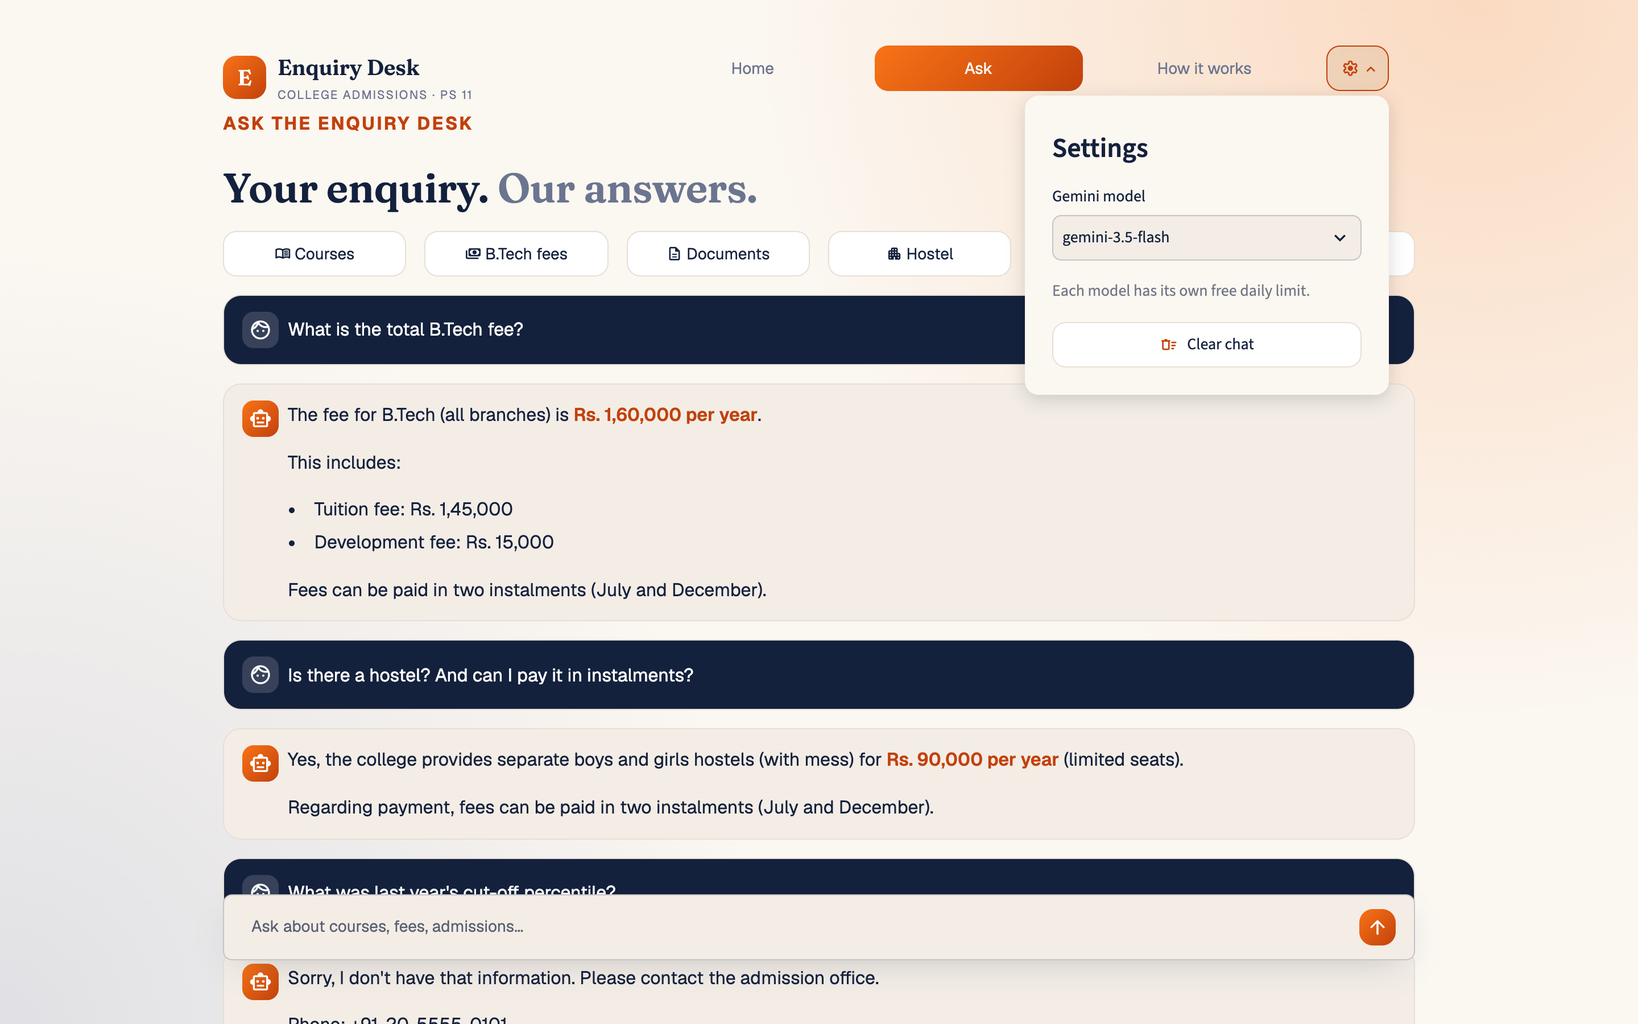
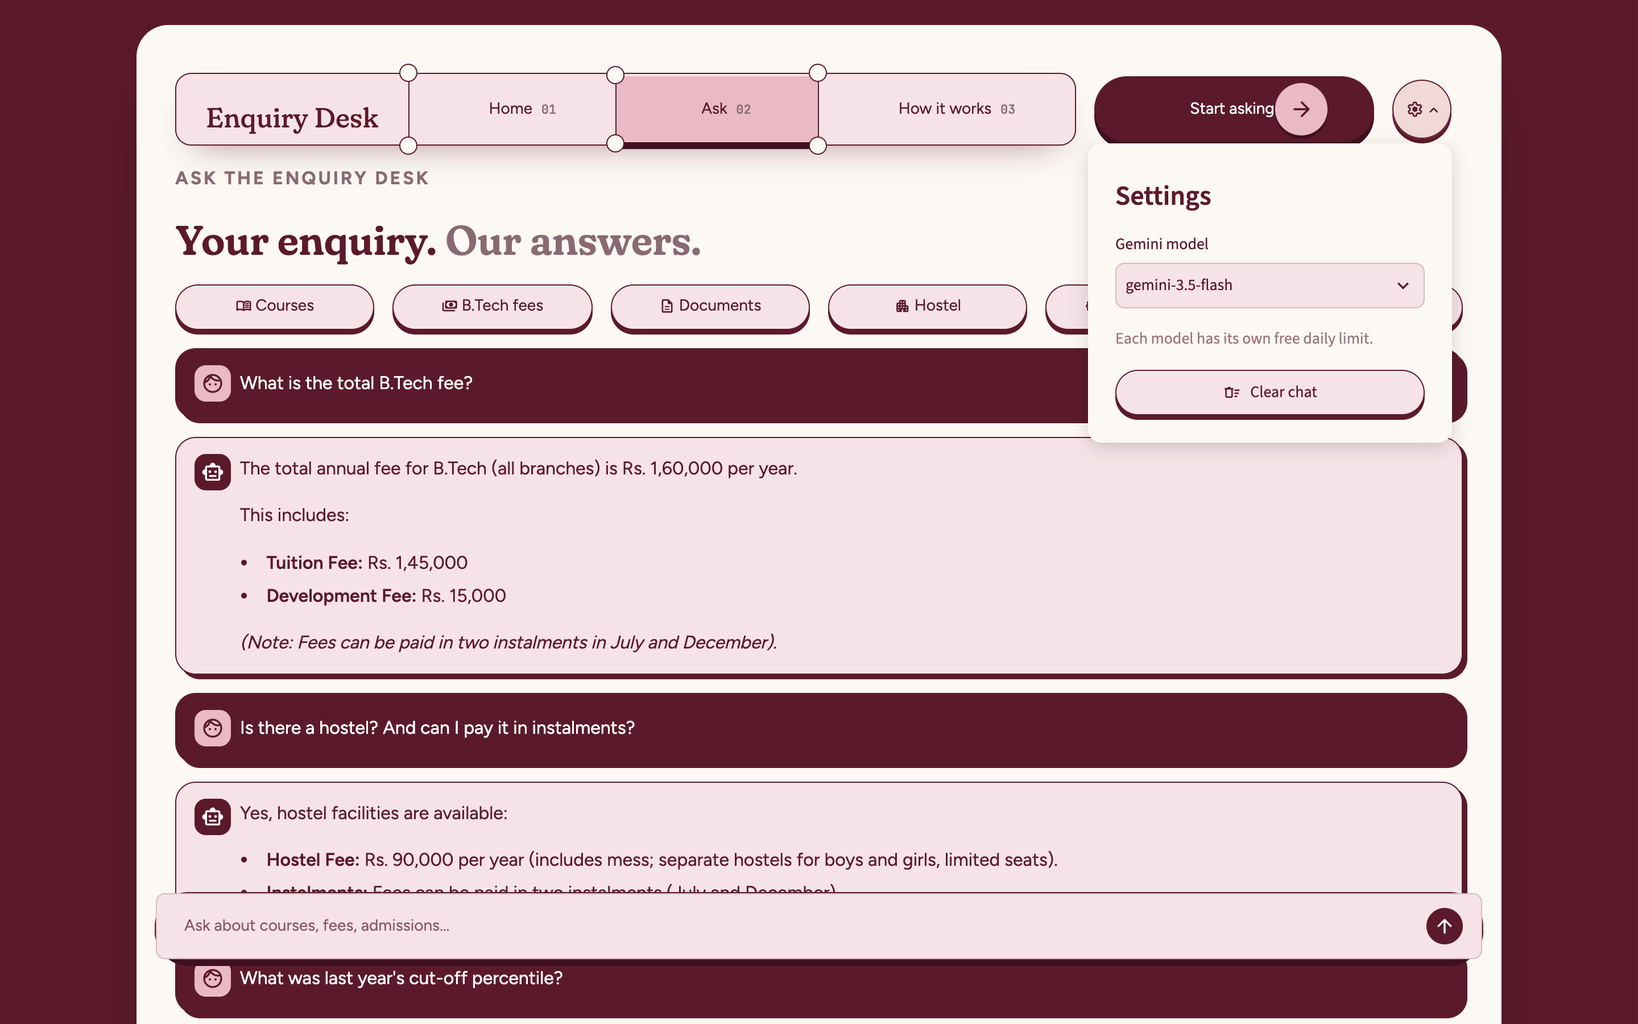
New wine and pink design with 3D programme cube

diff --git a/style.css b/style.css
@@ -1,115 +1,149 @@
 /* College Enquiry Chatbot - page styling.
-   Colours: orange (buttons, highlights) + dark navy (text, user messages). */
+   Colours: dark wine (frame, buttons, text) + soft pink (cards, highlights) on cream. */
 
-@import url('https://fonts.googleapis.com/css2?family=Fraunces:ital,wght@0,600;1,600&family=Geist:wght@400;500;600;700&display=swap');
+@import url('https://fonts.googleapis.com/css2?family=Fraunces:opsz,wght,SOFT@9..144,400..600,100&family=Figtree:wght@400;500;600;700&family=JetBrains+Mono:wght@500&display=swap');
 
 /* ---------- 1. Colours and fonts ---------- */
 :root {
-  --cream: #FBF7F1;      /* page background */
-  --card: #FFFFFF;
-  --line: #E7DFD6;       /* thin borders */
-  --navy: #14213D;       /* main text */
-  --grey: #6B7590;       /* secondary text */
-  --orange: #C2410C;
-  --orange-light: #F97316;
-  --orange-gradient: linear-gradient(135deg, #F97316, #C2410C);
-  --shadow: 0 10px 30px -12px rgba(20, 33, 61, .25);
+  --wine: #5B1A2C;        /* frame, dark buttons, text */
+  --wine-dark: #3F1020;   /* chunky shadows */
+  --pink: #E9B9C6;        /* light cards */
+  --pink-soft: #F5E3E8;   /* nav bar, chips */
+  --cream: #FCF8F4;       /* page card */
+  --grey: #8A6A72;        /* small text */
+  --serif: 'Fraunces', Georgia, serif;
+  --sans: 'Figtree', sans-serif;
 }
 
-.stApp {
-  background:
-    radial-gradient(circle at 90% 0%, rgba(249, 115, 22, .22), transparent 40%),
-    radial-gradient(circle at 0% 100%, rgba(30, 58, 138, .12), transparent 40%),
-    var(--cream);
-  color: var(--navy);
-  font-family: 'Geist', sans-serif;
-}
-.stApp p, .stApp li, .stApp button { font-family: 'Geist', sans-serif; }
-.block-container { max-width: 1080px; padding-top: 1.5rem; }
-[data-testid="stHeader"] { background: transparent; }
-[data-testid="stToolbar"] { display: none; }
+/* wine frame around a cream card */
+.stApp { background: var(--wine); color: var(--wine); font-family: var(--sans); }
+.stApp p, .stApp li, .stApp button { font-family: var(--sans); }
+.block-container { max-width: 1200px; background: var(--cream); border-radius: 28px;
+  margin: 22px auto 110px; padding: 26px 34px 40px; box-shadow: 0 30px 60px -30px rgba(0, 0, 0, .5); }
+[data-testid="stHeader"], [data-testid="stToolbar"] { display: none; }
+h1, h2, h3 { font-family: var(--serif) !important; color: var(--wine); font-weight: 500; }
 
-/* ---------- 2. Top bar ---------- */
-.brand { display: flex; align-items: center; gap: 10px; font-family: 'Fraunces', serif; font-size: 19px; }
-.brand small { display: block; font-family: 'Geist', sans-serif; font-size: 10.5px;
-  letter-spacing: .1em; text-transform: uppercase; color: var(--grey); }
-.logo { width: 38px; height: 38px; border-radius: 12px; display: grid; place-items: center;
-  background: var(--orange-gradient); color: white; font-weight: 700; }
+/* ---------- 2. Top bar (pink segmented bar with round joints) ---------- */
+.st-key-navbar { background: var(--pink-soft); border: 1.5px solid var(--wine); border-radius: 14px;
+  box-shadow: 0 14px 30px -18px rgba(91, 26, 44, .6); }
+.st-key-navbar > [data-testid="stElementContainer"] { position: relative; border-left: 1.5px solid var(--wine); }
+.st-key-navbar > [data-testid="stElementContainer"]:first-child { border-left: none; }
+/* the small circles where the dividers meet the bar edge */
+.st-key-navbar > [data-testid="stElementContainer"]:not(:first-child)::before,
+.st-key-navbar > [data-testid="stElementContainer"]:not(:first-child)::after {
+  content: ""; position: absolute; left: -9px; width: 16px; height: 16px; border-radius: 50%;
+  background: var(--cream); border: 1.5px solid var(--wine); z-index: 2; }
+.st-key-navbar > [data-testid="stElementContainer"]::before { top: -9px; }
+.st-key-navbar > [data-testid="stElementContainer"]::after { bottom: -9px; }
+.brand { font-family: var(--serif); font-size: 24px; padding: 14px 26px; white-space: nowrap; }
+.st-key-navbar .stButton > button { min-height: 62px; border-radius: 0; border: none; box-shadow: none;
+  background: transparent; color: var(--wine); font-size: 16px; font-weight: 600; justify-content: flex-start; padding-left: 22px; }
+.st-key-navbar .stButton > button[kind="primary"] { background: var(--pink); color: var(--wine) !important; }
+.st-key-navbar .stButton > button:hover { background: var(--pink); transform: none; }
+.st-key-navbar code { background: none; color: var(--grey); font-family: 'JetBrains Mono', monospace; font-size: 11px; }
 
 /* ---------- 3. Buttons ---------- */
-.stButton > button { border-radius: 12px; border: 1px solid var(--line); background: var(--card);
-  color: var(--navy); font-weight: 600; transition: transform .2s, border-color .2s, color .2s; }
-.stButton > button:hover { transform: translateY(-2px); border-color: var(--orange); color: var(--orange); }
-.stButton [data-testid="stIconMaterial"] { color: var(--orange); }
+/* light pill buttons (quick questions, How it works) */
+.stButton > button { border-radius: 999px; border: 1.5px solid var(--wine); background: var(--pink-soft);
+  color: var(--wine); font-weight: 600; box-shadow: 0 4px 0 var(--wine); transition: transform .15s, box-shadow .15s; }
+.stButton > button:hover { transform: translateY(-2px); box-shadow: 0 6px 0 var(--wine); color: var(--wine); border-color: var(--wine); }
+.stButton > button:active { transform: translateY(3px); box-shadow: 0 1px 0 var(--wine); }
+.stButton [data-testid="stIconMaterial"] { color: var(--wine); }
 
-/* primary = orange button (current page, "Start asking") */
-.stButton > button[kind="primary"] { background: var(--orange-gradient); color: white; border: none; }
-.stButton > button[kind="primary"]:hover { color: white; }
-.stButton > button[kind="primary"] [data-testid="stIconMaterial"] { color: white; }
-
-/* tertiary = plain text link (other pages in the top bar) */
-.stButton > button[kind="tertiary"] { background: transparent; border: none; color: var(--grey); }
+/* dark wine pill with a round pink arrow cap ("Start asking", "Ask a question") */
+.stButton > button[kind="primary"] { background: var(--wine); color: white; border: none; min-height: 58px;
+  padding: 4px 6px 4px 26px; justify-content: space-between; box-shadow: 0 6px 0 var(--wine-dark); }
+.stButton > button[kind="primary"]:hover { color: white; box-shadow: 0 8px 0 var(--wine-dark); }
+.stButton > button[kind="primary"] [data-testid="stIconMaterial"] { width: 46px; height: 46px; border-radius: 50%;
+  display: grid; place-items: center; flex: none; font-size: 22px; background: var(--pink); color: var(--wine); margin-left: 16px;
+  box-shadow: 0 3px 0 var(--wine-dark); transition: transform .2s; }
+.stButton > button[kind="primary"]:hover [data-testid="stIconMaterial"] { transform: translateX(3px); }
 
 /* settings (gear) button */
-[data-testid="stPopover"] { display: flex; justify-content: flex-end; }
-[data-testid="stPopoverButton"] { border-radius: 12px; background: var(--card); }
-[data-testid="stPopoverButton"]:hover { border-color: var(--orange); color: var(--orange); }
+[data-testid="stPopoverButton"] { border-radius: 50%; width: 52px; height: 52px; border: 1.5px solid var(--wine);
+  background: var(--pink-soft); box-shadow: 0 4px 0 var(--wine); }
 
-/* ---------- 4. Headings ---------- */
-h1, h2, h3 { font-family: 'Fraunces', serif !important; color: var(--navy); }
-.eyebrow { color: var(--orange); font-size: 12.5px; font-weight: 700; letter-spacing: .1em;
-  text-transform: uppercase; margin: 2.2rem 0 .4rem; }
+/* ---------- 4. Tickets (cards with a notch on each side) ---------- */
+.ticket { position: relative; border: 1.5px solid var(--wine); border-radius: 16px; padding: 14px 28px 16px;
+  box-shadow: 8px 8px 0 var(--wine-dark); animation: rise .6s ease both; }
+.ticket::before, .ticket::after { content: ""; position: absolute; top: 50%; width: 22px; height: 22px;
+  margin-top: -11px; border-radius: 50%; background: var(--cream); border: 1.5px solid var(--wine); }
+.ticket::before { left: -12px; } .ticket::after { right: -12px; }
+.ticket small { display: block; font-size: 15px; opacity: .8; }
+.ticket b { display: block; font-family: var(--serif); font-weight: 500; font-size: 64px; line-height: 1.05; }
+.ticket.light { background: var(--pink); color: var(--wine); }
+.ticket.dark { background: var(--wine); color: white; text-align: right; }
+
+/* ---------- 5. Home page text ---------- */
+.tagline { font-family: var(--serif); font-size: 30px; line-height: 1.15; margin: 34px 0 4px; }
+.hint { color: var(--grey); font-size: 14px; margin-bottom: 14px; }
+.note { text-align: right; font-size: 17px; margin: 26px 0 14px; color: var(--wine); }
+.note b { font-family: var(--serif); font-weight: 500; font-size: 21px; }
+.big-line { display: flex; justify-content: space-between; flex-wrap: wrap; gap: 0 40px; margin-top: 10px;
+  font-family: var(--serif); font-size: clamp(44px, 6.5vw, 92px); line-height: 1; letter-spacing: -.02em; }
+
+/* programme chips: round buttons, the chosen one is wine */
+[data-testid="stButtonGroup"] { display: flex; justify-content: flex-end; }
+[data-testid="stButtonGroup"] button { width: 58px; height: 58px; border-radius: 50% !important; border: 1.5px solid var(--wine) !important;
+  background: var(--cream); color: var(--wine); font-weight: 700; box-shadow: 0 4px 0 var(--wine); margin-left: -4px; }
+[data-testid="stButtonGroup"] button[aria-checked="true"] { background: var(--wine) !important; color: white !important; }
+
+/* ---------- 6. The 3D cube ---------- */
+.scene { position: relative; height: 420px; perspective: 1100px; display: grid; place-items: center; }
+.plate { position: absolute; width: 380px; height: 380px; top: 120px; background: var(--pink);
+  border: 1.5px solid var(--wine); box-shadow: 0 14px 0 var(--wine);
+  transform: rotateX(68deg) rotateZ(-38deg); }
+.cube { position: relative; width: 240px; height: 240px; transform-style: preserve-3d;
+  transform: rotateX(-16deg) rotateY(28deg); animation: sway 7s ease-in-out infinite; }
+.cube:hover { animation-duration: 2s; }
+.face { position: absolute; inset: 0; border: 1.5px solid var(--wine); background: var(--cream);
+  display: flex; flex-direction: column; justify-content: center; align-items: center; color: var(--wine); }
+.front { transform: translateZ(120px); }
+.side { transform: rotateY(-90deg) translateZ(120px); background: #EFE4E2; }
+.top { transform: rotateX(90deg) translateZ(120px); background: var(--wine); }
+.face small { font-size: 14px; opacity: .7; }
+.face b { font-family: var(--serif); font-weight: 500; font-size: 46px; }
+.side b { font-size: 26px; }
+.say { margin-top: 14px; display: flex; align-items: center; gap: 8px; padding: 6px 14px 6px 6px;
+  border: 1.5px solid var(--wine); border-radius: 12px; background: white; font-size: 14px; font-weight: 600;
+  box-shadow: 0 3px 0 var(--wine); }
+.say i { width: 26px; height: 26px; border-radius: 50%; background: var(--wine); position: relative; }
+.say i::after { content: ""; position: absolute; left: 10px; top: 7px; border-left: 9px solid white;
+  border-top: 6px solid transparent; border-bottom: 6px solid transparent; }
+@keyframes sway { 50% { transform: rotateX(-16deg) rotateY(42deg); } }
+
+/* ---------- 7. Ask page (chat) ---------- */
+.eyebrow { color: var(--grey); font-size: 13px; font-weight: 700; letter-spacing: .12em; text-transform: uppercase; margin: 2rem 0 .3rem; }
 .grey { color: var(--grey); }
-
-/* ---------- 5. Home page ---------- */
-.hero { margin-top: 1.5rem; animation: rise .7s ease both; }
-.hero h1 { font-size: clamp(40px, 6vw, 62px); line-height: 1.05; margin: 0 0 1rem; }
-.highlight { font-style: italic; color: var(--orange);
-  background: linear-gradient(transparent 62%, rgba(251, 146, 60, .35) 62%); }
-.intro { font-size: 18px; color: var(--grey); max-width: 560px; }
-
-.stats { display: grid; grid-template-columns: repeat(4, 1fr); gap: 12px; margin: 1.6rem 0; }
-.stat { background: var(--card); border: 1px solid var(--line); border-radius: 16px; padding: 16px;
-  box-shadow: var(--shadow); transition: transform .2s; }
-.stat:hover { transform: translateY(-4px); }
-.stat b { display: block; font-size: 28px; color: var(--orange); }
-.stat span { font-size: 13px; color: var(--grey); }
-
-/* ---------- 6. Chat ---------- */
-[data-testid="stChatMessage"] { background: #F3EDE6; border: 1px solid var(--line); border-radius: 16px;
-  padding: 14px 16px; animation: rise .4s ease both; }
-/* the user's messages are navy */
-[data-testid="stChatMessage"]:has([data-testid="stChatMessageAvatarUser"]) { background: var(--navy); }
+[data-testid="stChatMessage"] { background: var(--pink-soft); border: 1.5px solid var(--wine); border-radius: 18px;
+  padding: 14px 16px; box-shadow: 4px 4px 0 var(--wine); animation: rise .4s ease both; }
+[data-testid="stChatMessage"]:has([data-testid="stChatMessageAvatarUser"]) { background: var(--wine); }
 [data-testid="stChatMessage"]:has([data-testid="stChatMessageAvatarUser"]) p { color: white; }
-[data-testid="stChatMessage"] strong { color: var(--orange); }
-/* avatars: orange square for the bot, light square for the user */
-[data-testid="stChatMessageAvatarAssistant"] { background: var(--orange-gradient); color: white; border-radius: 10px; }
-[data-testid="stChatMessageAvatarUser"] { background: rgba(255, 255, 255, .15); color: white; border-radius: 10px; }
-
+[data-testid="stChatMessage"] p, [data-testid="stChatMessage"] li { color: var(--wine); }
+[data-testid="stChatMessageAvatarAssistant"] { background: var(--wine); color: white; border-radius: 10px; }
+[data-testid="stChatMessageAvatarUser"] { background: var(--pink); color: var(--wine); border-radius: 10px; }
 [data-testid="stBottom"] > div { background: transparent; }
-[data-testid="stBottomBlockContainer"] { max-width: 1080px; }
-[data-testid="stChatInput"] { border-radius: 20px; background: var(--card); box-shadow: var(--shadow); }
-[data-testid="stChatInputSubmitButton"] { background: var(--orange-gradient); color: white; border-radius: 12px; }
+[data-testid="stBottomBlockContainer"] { max-width: 1200px; }
+[data-testid="stChatInput"] { border-radius: 999px; background: var(--cream); border: 1.5px solid var(--wine); box-shadow: 0 5px 0 var(--wine-dark); }
+[data-testid="stChatInputSubmitButton"] { background: var(--wine); color: white; border-radius: 50%; }
 
-/* ---------- 7. How it works page ---------- */
-.steps { display: grid; grid-template-columns: repeat(3, 1fr); gap: 14px; margin-top: 1rem; }
-.step { background: var(--card); border: 1px solid var(--line); border-radius: 18px; padding: 20px;
-  box-shadow: var(--shadow); transition: transform .2s; }
-.step:hover { transform: translateY(-4px); }
-.step b { display: inline-block; background: var(--orange-gradient); color: white;
-  border-radius: 10px; padding: 6px 10px; font-size: 13px; }
-.step h3 { font-size: 17px; margin: 12px 0 6px; }
-.step p { color: var(--grey); margin: 0; }
-
-.trust { margin-top: 18px; padding: 26px 28px; border-radius: 20px; color: white;
-  background: linear-gradient(135deg, #0B1530, #14213D 55%, #1E3A8A); box-shadow: var(--shadow); }
+/* ---------- 8. How it works page ---------- */
+.steps { display: grid; grid-template-columns: repeat(3, 1fr); gap: 22px; margin-top: 1rem; }
+.step { position: relative; background: var(--pink); border: 1.5px solid var(--wine); border-radius: 16px;
+  padding: 20px 26px; box-shadow: 6px 6px 0 var(--wine-dark); }
+.step b { font-family: 'JetBrains Mono', monospace; font-size: 13px; color: var(--grey); }
+.step h3 { font-size: 22px; margin: 6px 0; }
+.step p { margin: 0; color: var(--wine); }
+.trust { margin-top: 26px; padding: 26px 30px; border-radius: 18px; background: var(--wine); color: white;
+  box-shadow: 8px 8px 0 var(--wine-dark); }
 .trust h3 { color: white; margin: 0 0 4px; }
-.trust p { color: #C7D2FE; margin: 0; }
+.trust p { color: var(--pink); margin: 0; }
 
-/* ---------- 8. Animation and phones ---------- */
+/* ---------- 9. Animation and phones ---------- */
 @keyframes rise { from { opacity: 0; transform: translateY(12px); } to { opacity: 1; transform: none; } }
 
-@media (max-width: 720px) {
-  .stats { grid-template-columns: repeat(2, 1fr); }
+@media (max-width: 900px) {
   .steps { grid-template-columns: 1fr; }
+  .scene { transform: scale(.8); }
+  .ticket b { font-size: 48px; }
 }

diff --git a/app.py b/app.py
@@ -33,6 +33,14 @@ QUICK_QUESTIONS = [
     (":material/work: Placements", "How are the placements?"),
 ]
 
+# Programme facts shown on the Home page cube (copied from college_info.txt)
+PROGRAMMES = {
+    "BT": {"name": "B.Tech", "fee": "Rs 1,60,000", "short": "1.6L", "years": "4 years", "seats": "600 seats"},
+    "MBA": {"name": "MBA", "fee": "Rs 1,25,000", "short": "1.25L", "years": "2 years", "seats": "60 seats"},
+    "MCA": {"name": "MCA", "fee": "Rs 95,000", "short": "95K", "years": "2 years", "seats": "60 seats"},
+    "MT": {"name": "M.Tech", "fee": "Rs 1,10,000", "short": "1.1L", "years": "2 years", "seats": "24 seats"},
+}
+
 # ============================================================
 # 2. THE PROMPT
 # ============================================================
@@ -98,22 +106,27 @@ def get_answer(model):
 # ============================================================
 # 4. PAGES
 # ============================================================
+def go_to(page):
+    """Switch to another page and redraw the screen."""
+    st.session_state.page = page
+    st.rerun()
+
+
 def show_navbar():
-    """Top bar: brand, page buttons and the settings (gear) button. Returns the chosen model."""
-    brand, links, gear = st.columns([2.5, 4, 0.6], vertical_alignment="center")
+    """Top bar: brand + numbered page buttons, a 'Start asking' button and the gear. Returns the model."""
+    bar, cta, gear = st.columns([5, 1.6, 0.45], vertical_alignment="center")
 
-    brand.markdown(
-        '<div class="brand"><span class="logo">E</span>'
-        '<span>Enquiry Desk<small>College admissions · PS 11</small></span></div>',
-        unsafe_allow_html=True,
-    )
+    # The pink segmented bar (styled in style.css as .st-key-navbar)
+    with bar.container(key="navbar", horizontal=True, gap=None, vertical_alignment="center"):
+        st.markdown('<div class="brand">Enquiry Desk</div>', unsafe_allow_html=True)
+        for number, name in enumerate(["Home", "Ask", "How it works"], start=1):
+            is_current = st.session_state.page == name
+            if st.button(f"{name} `0{number}`", type="primary" if is_current else "tertiary", width="stretch"):
+                go_to(name)
 
-    pages = ["Home", "Ask", "How it works"]
-    for column, name in zip(links.columns(3), pages):
-        is_current = st.session_state.page == name
-        if column.button(name, type="primary" if is_current else "tertiary", width="stretch"):
-            st.session_state.page = name
-            st.rerun()
+    if cta.button("Start asking", icon=":material/arrow_forward:", icon_position="right",
+                  type="primary", key="cta_top", width="stretch"):
+        go_to("Ask")
 
     with gear.popover("", icon=":material/settings:"):
         st.markdown("#### Settings")
@@ -126,26 +139,55 @@ def show_navbar():
 
 
 def show_home_page():
-    st.markdown(
-        """
-        <div class="hero">
-          <p class="eyebrow">Admissions 2026–27</p>
-          <h1>Ask once.<br><span class="highlight">Answered instantly.</span></h1>
-          <p class="intro">Courses, fees, eligibility and admissions, answered from the
-          college's official info sheet. No queues. No guessing.</p>
-        </div>
-        <div class="stats">
-          <div class="stat"><b>9</b><span>Programmes</span></div>
-          <div class="stat"><b>600+</b><span>B.Tech seats</span></div>
-          <div class="stat"><b>86%</b><span>Placement rate</span></div>
-          <div class="stat"><b>28 LPA</b><span>Highest package</span></div>
-        </div>
-        """,
-        unsafe_allow_html=True,
-    )
-    if st.button("Start asking", icon=":material/arrow_forward:", type="primary"):
-        st.session_state.page = "Ask"
-        st.rerun()
+    """Two tickets, a 3D cube with the chosen programme's facts, and programme chips."""
+    if "programme" not in st.session_state:
+        st.session_state.programme = "BT"
+    code = st.session_state.programme or "BT"
+    p = PROGRAMMES[code]
+
+    left, middle, right = st.columns([1, 1.3, 1], vertical_alignment="center")
+
+    with left:
+        st.markdown(
+            f"""
+            <div class="ticket light"><small>you ask</small><b>Fees?</b></div>
+            <div class="tagline">Ask a desk,<br>not a queue.</div>
+            <div class="hint">Pick a programme on the right</div>
+            """,
+            unsafe_allow_html=True,
+        )
+        if st.button("Ask a question", icon=":material/arrow_forward:", icon_position="right", type="primary"):
+            go_to("Ask")
+
+    with middle:
+        # A CSS 3D cube: front, side and top faces sitting on a pink plate
+        st.markdown(
+            f"""
+            <div class="scene"><div class="plate"></div>
+              <div class="cube">
+                <div class="face front"><small>{p["years"]}</small><b>{p["name"]}</b>
+                  <span class="say"><i></i>{p["fee"]} / year</span></div>
+                <div class="face side"><b>{p["seats"]}</b></div>
+                <div class="face top"></div>
+              </div>
+            </div>
+            """,
+            unsafe_allow_html=True,
+        )
+
+    with right:
+        st.markdown(
+            f"""
+            <div class="ticket dark"><small>the answer</small><b>{p["short"]}</b></div>
+            <div class="note"><b>{p["name"]} · {p["fee"]} a year</b><br>from the college info sheet</div>
+            """,
+            unsafe_allow_html=True,
+        )
+        # Round chips to switch programme (the value is saved in st.session_state.programme)
+        st.segmented_control("Programme", list(PROGRAMMES), key="programme", label_visibility="collapsed")
+
+    st.markdown('<div class="big-line"><span>Pick a course.</span><span>Ask away.</span></div>',
+                unsafe_allow_html=True)
 
 
 def show_ask_page(model):

diff --git a/Report_draft.md b/Report_draft.md
@@ -15,7 +15,7 @@ Every admission season, the college office answers the same questions again and 
 3. I wrote `college_info.txt`, a sample info sheet for a demo college with courses, seats, fees, eligibility, admission steps, documents, dates, placements and facilities.
 4. I wrote the system prompt. It contains the whole info sheet and a few rules: answer only from this sheet, never make up numbers, give a fixed reply with the office contact when the answer is missing, and keep answers short.
 5. I wrote `app.py` in small functions: `build_system_prompt()` joins the rules and the info sheet, `ask_gemini()` sends it to Gemini with the last 10 chat messages (temperature 0.2), and one function per page draws the screen.
-6. I built three pages (Home, Ask, How it works) with a navigation bar at the top. The Ask page has six quick-question buttons and the chat. The history is saved in `st.session_state.messages`, so follow-up questions work. A gear button opens settings (model choice, "Clear chat"). The styling is in `style.css`, loaded with `st.markdown(..., unsafe_allow_html=True)`.
+6. I built three pages (Home, Ask, How it works) with a numbered navigation bar at the top. The Home page has a CSS 3D cube and chips to see each programme's fee. The Ask page has six quick-question buttons and the chat. The history is saved in `st.session_state.messages`, so follow-up questions work. A gear button opens settings (model choice, "Clear chat"). The styling is in `style.css`, loaded with `st.markdown(..., unsafe_allow_html=True)`.
 7. I tested the app with the six questions in the table below and took screenshots.
 8. I wrote the README and requirements.txt and pushed the project to GitHub.
 
